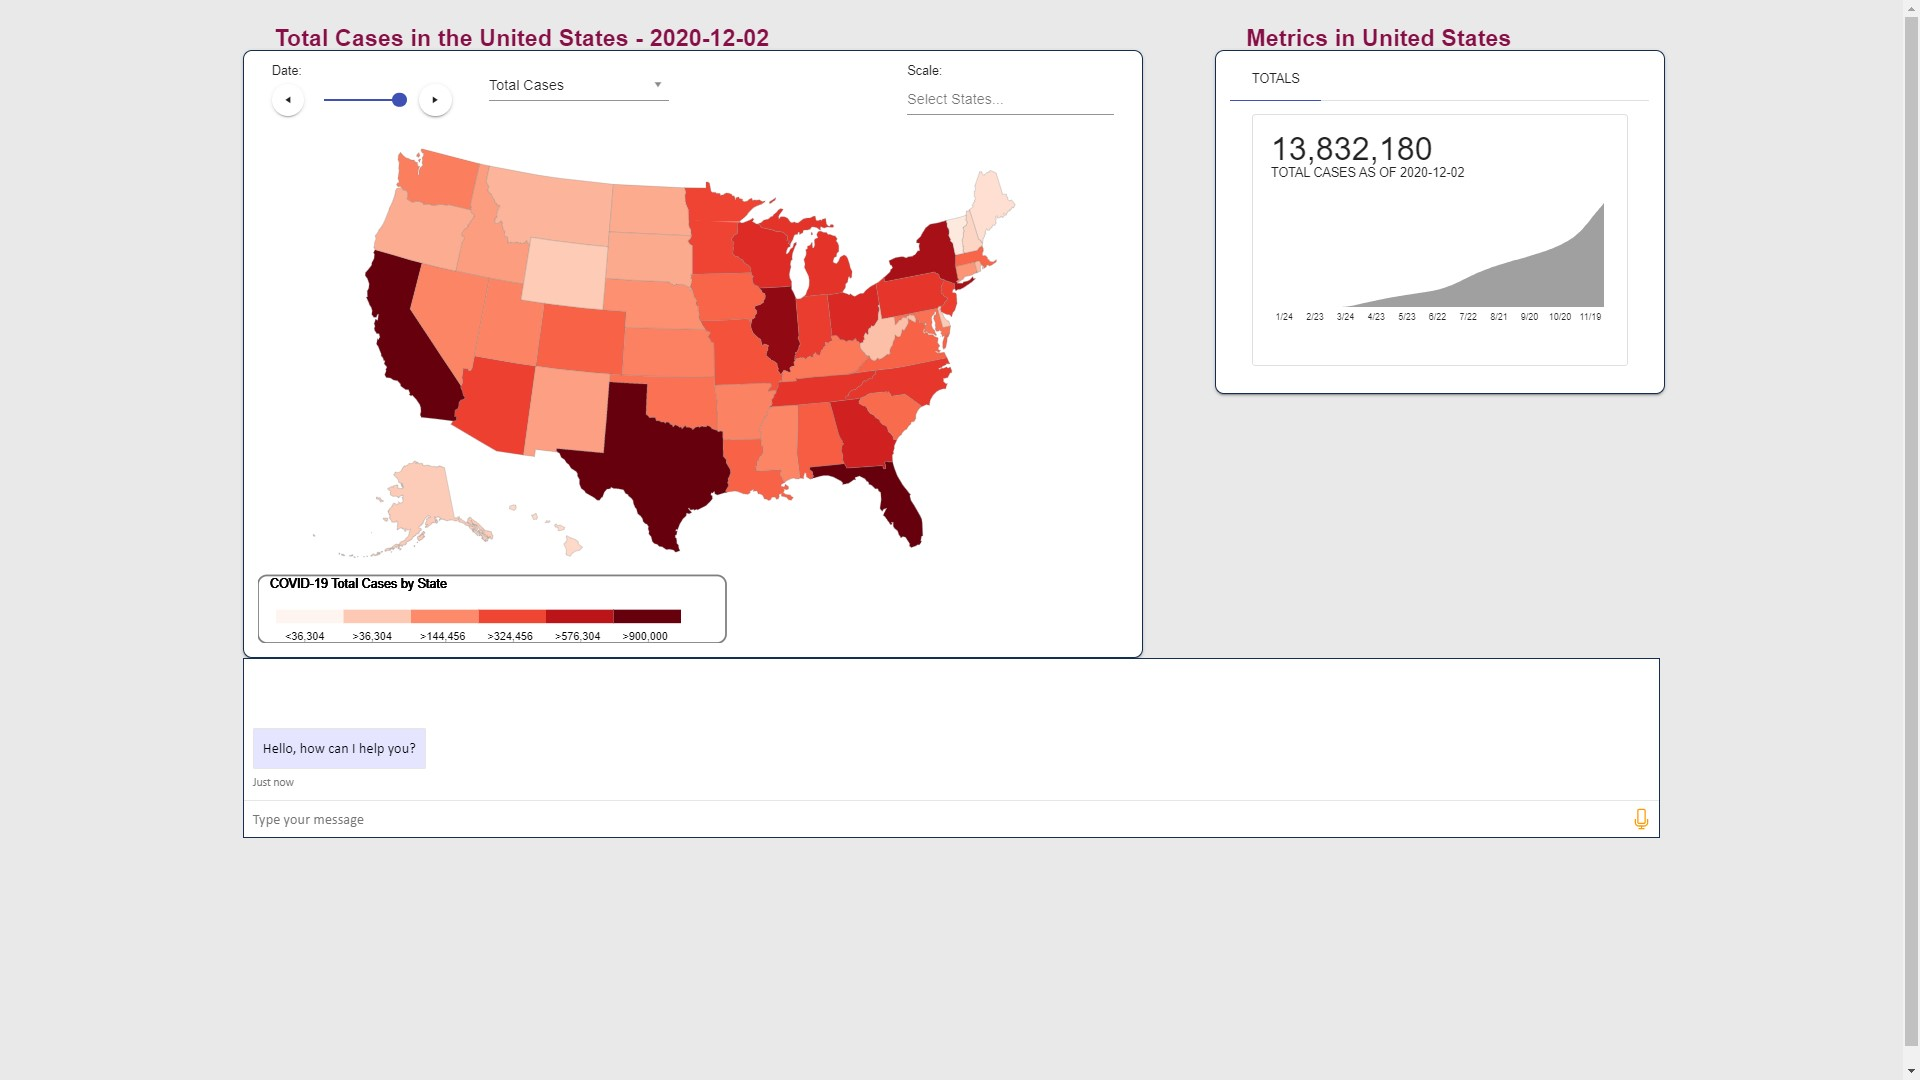
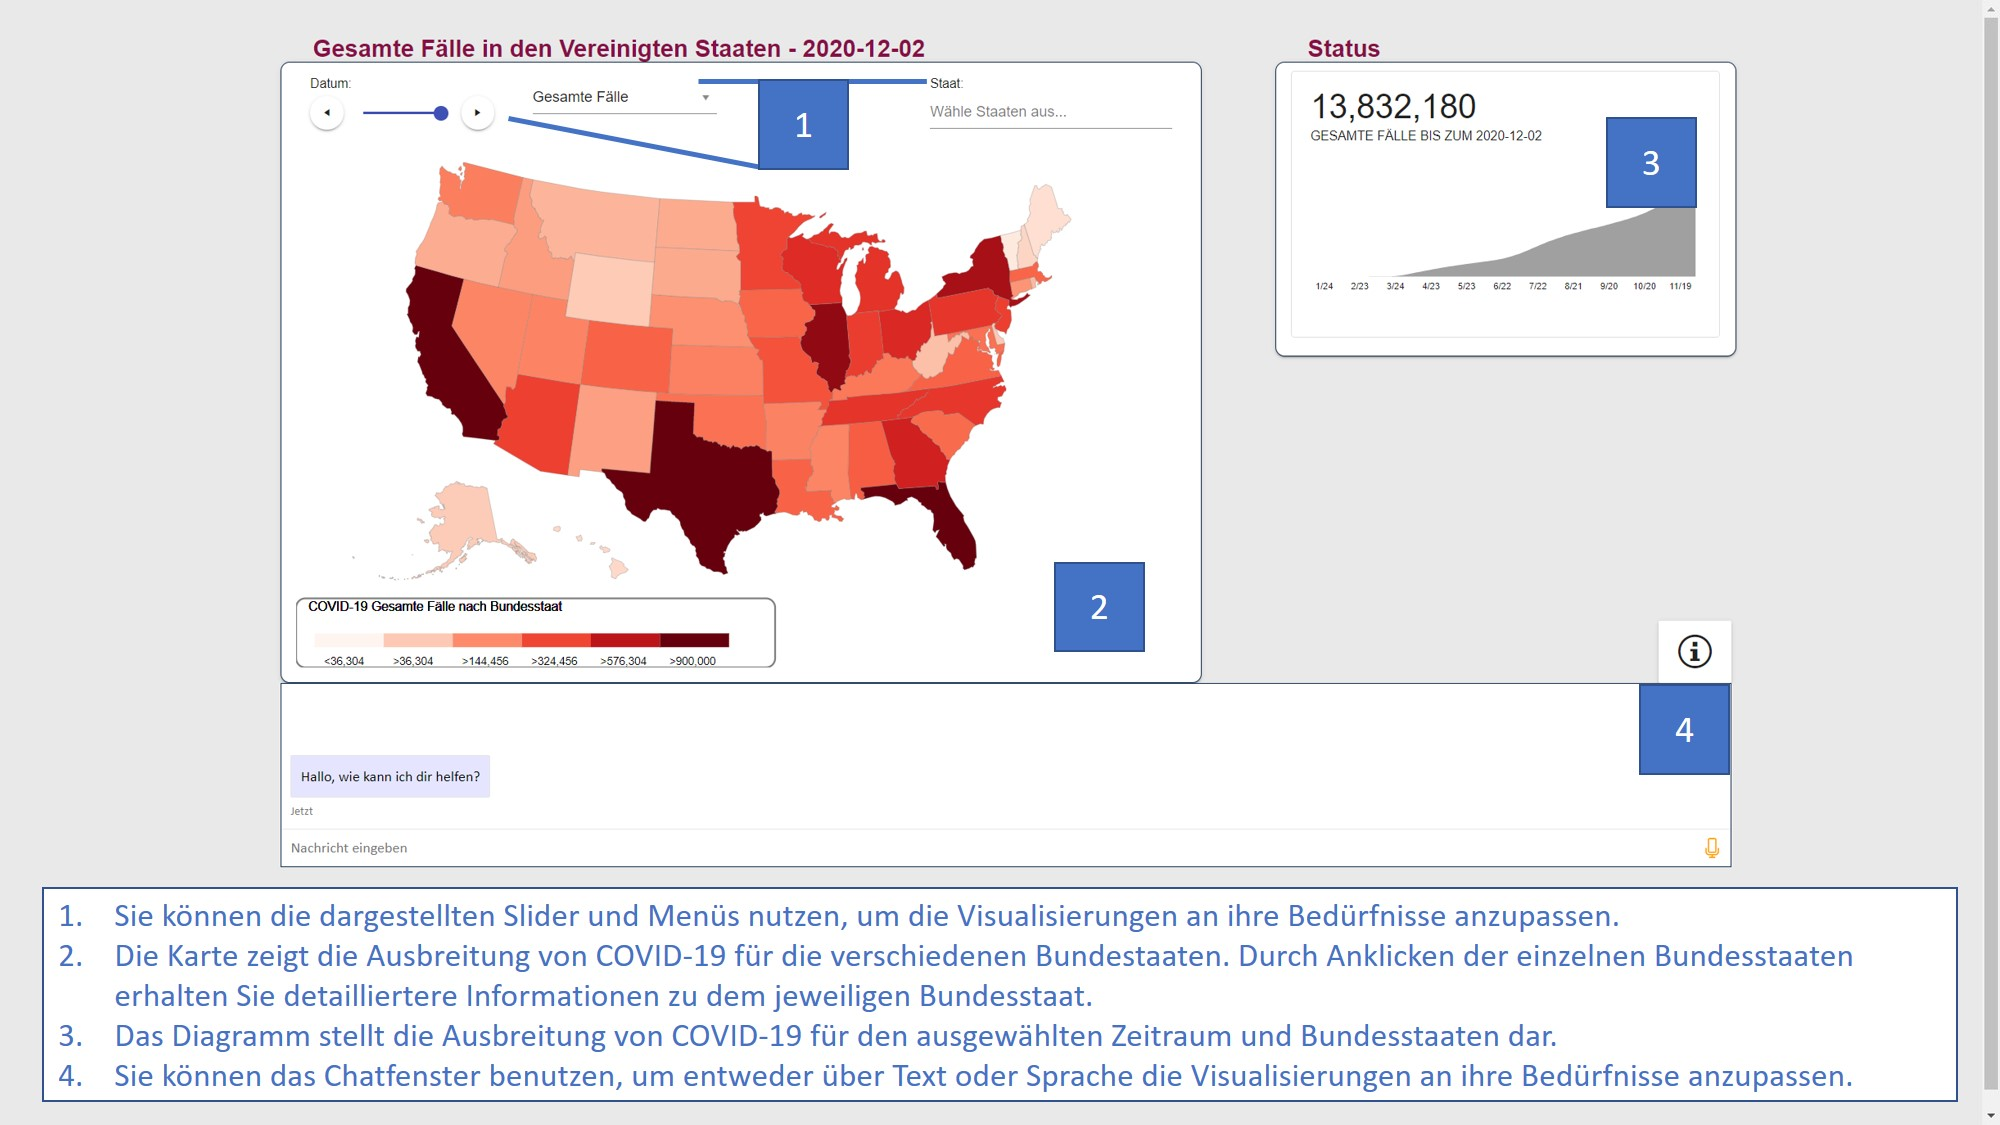
Changes in ReadMe

Changed region(s): [[0.125, 0.0306, 0.875, 0.6111], [0.0312, 0.6417, 0.9375, 0.9778], [0.8125, 0.5806, 0.875, 0.7028]]

diff --git a/README.md b/README.md
@@ -2,7 +2,7 @@
 
 ![GitHub Preview](/images/info.jpg)
 
-Click [here](https://interactive-analytics.org/covid-map/) to view the demo app.
+Click [here](https://interactive-analytics.org/covid-map-DE/) to view the demo app.
 
 ## Main Dependencies
 
@@ -18,4 +18,4 @@ Run the following to prevent memory errors
 node --max_old_space_size=8048 ./node_modules/@angular/cli/bin/ng serve  
 
 ## To deploy
-node --max_old_space_size=8048 ./node_modules/@angular/cli/bin/ng deploy --base-href=https://jcbowyer.github.io/d3-in-angular/
+node --max_old_space_size=8048 ./node_modules/@angular/cli/bin/ng build --base-href /covid-map-DE/ --prod --optimization
